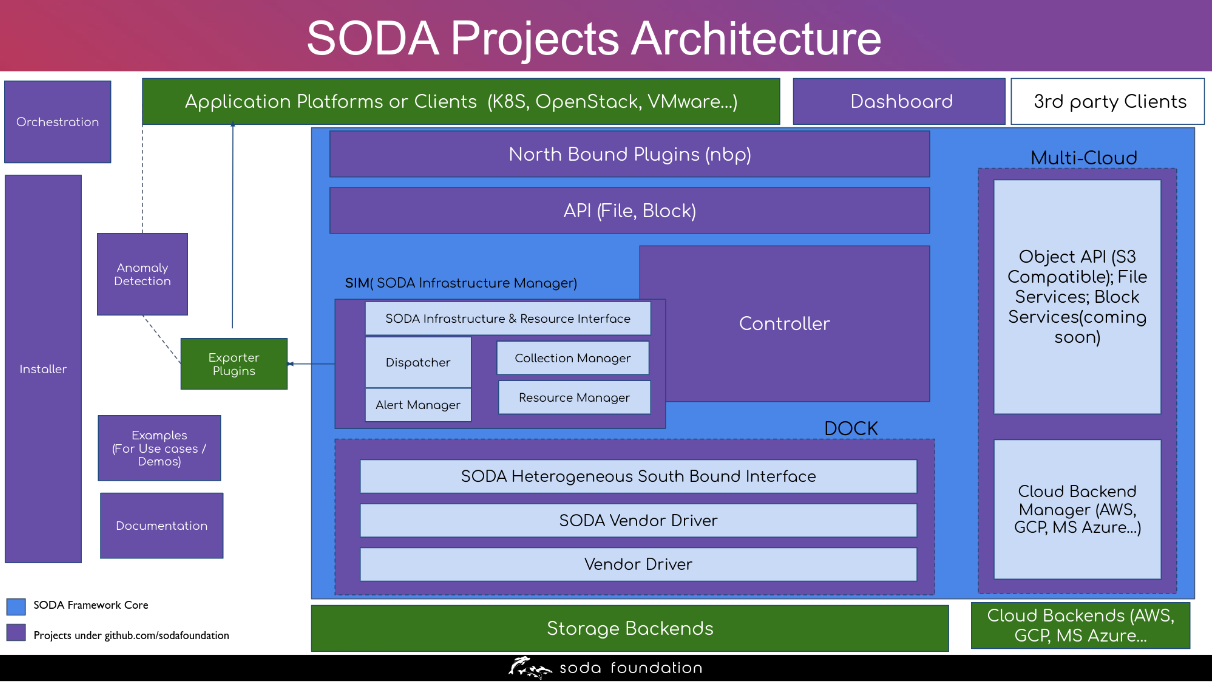
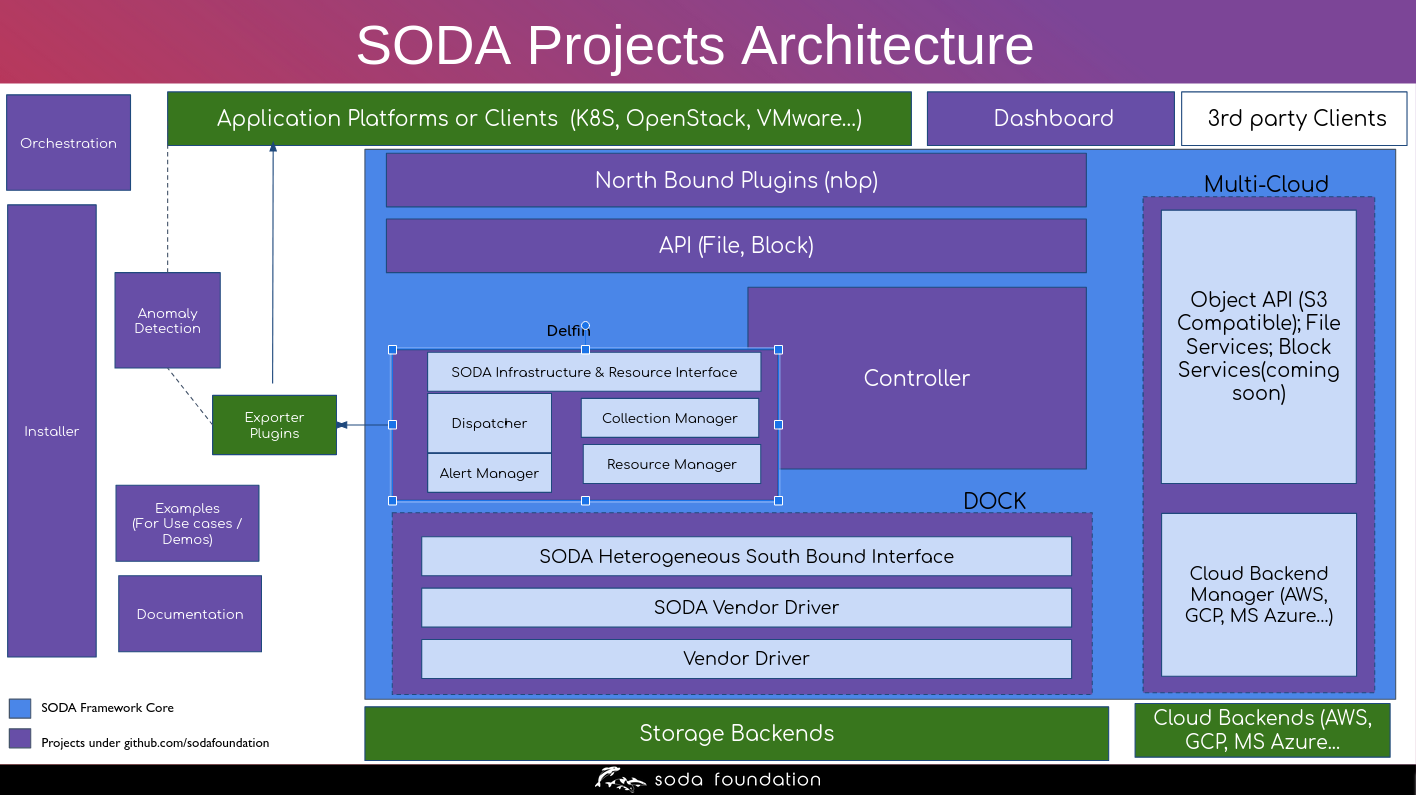
Adding new features for SODA multi-cloud and renaming SIM to delfin

diff --git a/content/projects/_index.md b/content/projects/_index.md
@@ -18,7 +18,7 @@ disableToc: false
 
     [Source Code Repository](https://github.com/sodafoundation/dashboard)
 
-- ### SODA Infrastructure Manager
+- ### SODA Delfin
     delfin (Dolphin in Spanish!), the SODA Infrastructure Manager project is an open source project to provide unified, intelligent and scalable resource management, alert and performance monitoring. It covers the resource management of all the backends & other infrastructures under SODA deployment. It also provides  alert management and metric data (performance/health) for monitoring and further analysis.
 
     It provides a scalable framework where more and more backends as well as client exporters can be added. This enables to add more storage and infrastructure backends and also support different management clients for monitoring and health prediction.
@@ -75,11 +75,13 @@ disableToc: false
 - ### SODA Multicloud
     SODA Multicloud provides a cloud vendor agnostic data management for hybrid cloud, intercloud, or intracloud. The goal is to provide a unified interface to support file, block,and object services across multiple cloud vendors. It can be hosted on-premise or in the cloud.
 
-    For object data management, it provides a backend manager which is S3 compatible APIs to connect with any cloud vendors. Currently, MS Azure, GCP, AWS, Huawei,IBM, Alibaba backends are supported and getting updated with new backends regularly.
+    For object data management, it provides a backend manager which is S3 compatible APIs to connect with any cloud vendors. Currently, MS Azure, GCP, AWS, Huawei, IBM, Alibaba backends are supported and getting updated with new backends regularly.
 
     It also supports Ceph backed to enable on-prem. China Unicom has integrated their YIG project into SODA Multicloud, enabling Ceph to be used as a massively scalable backend object storage.
 
-    Basic file service support is added for AWS, Azure and GCP and basic block service support is added for AWS EBS.
+    SODA multi-cloud also supports creating Storage Service Plans(SSP) for creating tenant based access to multi-cloud storages.
+
+    Basic file service support is added for AWS, Azure, GCP and Huawei and basic block service support is added for AWS EBS and Huawei.
 
     The technical team is exploring to extend SODA Multicloud and other key layers of SODA into a distributed data store which can support block, file and object data management across the edge, on-premise, and cloud 
 
